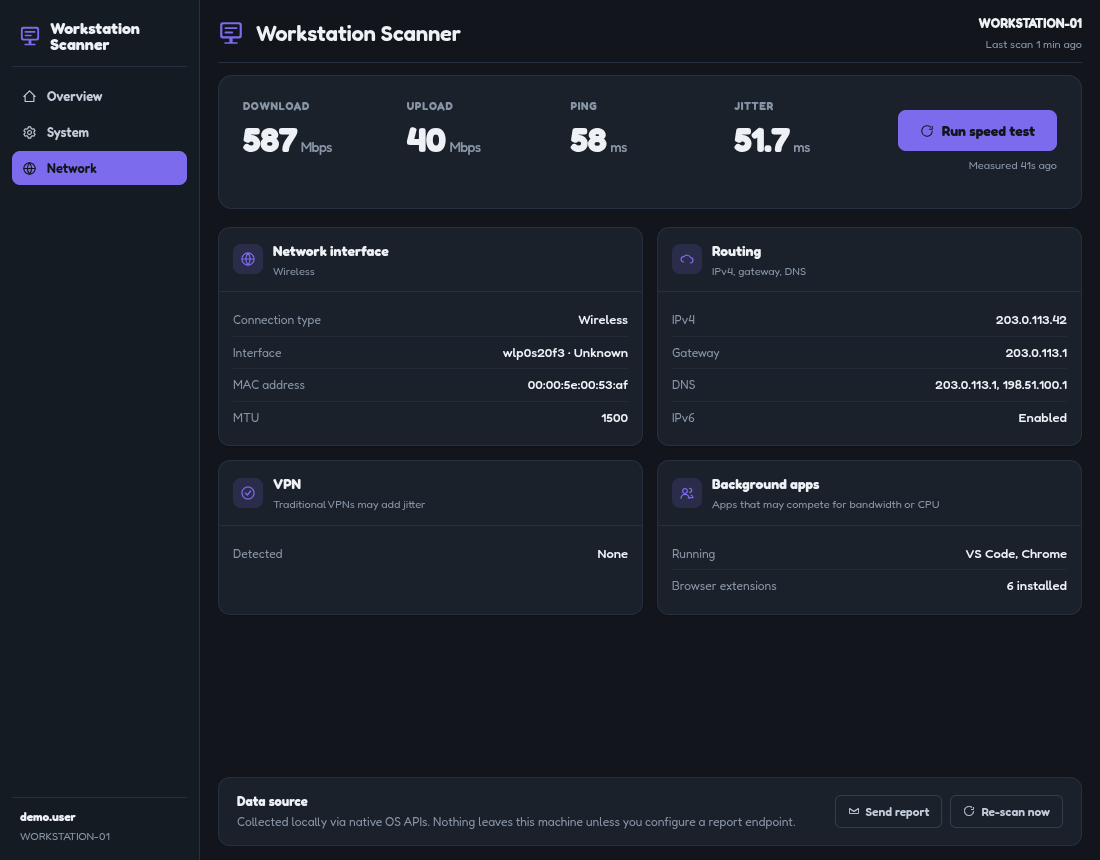
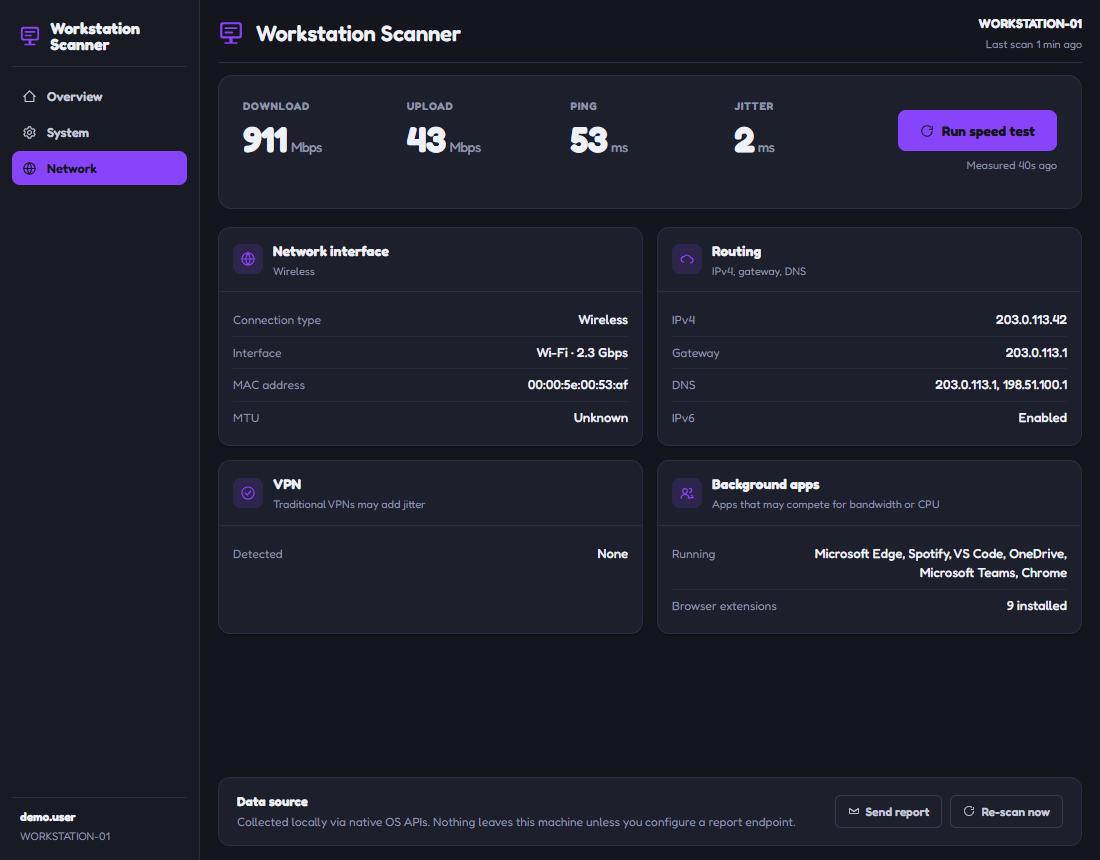
Rename the app to Workstation Scanner and drop the old mark
The product is called Workstation Scanner. The old name and the old
logo it came with are gone: window title, page title, in-app header and
sidebar, README, Postman collection, npm name, productName and the
build's appId.

The mark is now a display showing two readings, drawn to stay legible
once Windows scales it to 16px, on the app's own accent colour rather
than the blue it borrowed. Icons, the window icon and the README
screenshots are regenerated from it.

appId moves to com.evontroy.workstation-scanner. Nothing has been
released under the old id, so no installed copy is orphaned by the
change; a future release would have carried the old name in its install
path and settings location forever.

diff --git a/main.js b/main.js
@@ -1,7 +1,7 @@
 // ═══════════════════════════════════════════════════════
 //  ELECTRON MAIN PROCESS
 //
-//  Hosts the Workstation Health Dashboard UI (renderer at
+//  Hosts the Workstation Scanner UI (renderer at
 //  app/renderer). The main process collects real system
 //  facts via systeminformation and exposes them to the
 //  renderer over the `window.whd` bridge (see app/preload.js).
@@ -23,7 +23,7 @@ function createWindow() {
     height: 860,
     minWidth: 920,
     minHeight: 680,
-    title: "Workstation Health Dashboard",
+    title: "Workstation Scanner",
     // Packaged builds take the icon from electron-builder; setting it here is
     // what gives `npm start` a branded window and taskbar entry too.
     icon: path.join(APP_DIR, "renderer", "assets", "logo", "icon-256.png"),

diff --git a/tools/make-icons.js b/tools/make-icons.js
@@ -1,6 +1,6 @@
 // make-icons.js — generates the app icon set from the brand mark.
 //
-// Renders assets/logo/logo-mark.svg onto a rounded brand-blue tile at every
+// Renders assets/logo/logo-mark.svg onto a rounded accent-coloured tile at every
 // size Windows, macOS and Linux want, then packs the Windows sizes into a
 // multi-resolution .ico. Output goes to build/, which electron-builder picks
 // up automatically (it is the default buildResources directory).
@@ -15,7 +15,7 @@ const ROOT = path.join(__dirname, "..");
 const BUILD = path.join(ROOT, "build");
 const ICONS_DIR = path.join(BUILD, "icons");
 
-const BRAND = "#0041D9"; // the mark's own blue, used as the tile
+const BRAND = "#7d6bee"; // --accent from the app's theme, used as the tile
 const ICO_SIZES = [16, 24, 32, 48, 64, 128, 256];
 const PNG_SIZES = [16, 32, 48, 64, 128, 256, 512, 1024];
 

diff --git a/app/renderer/helper-app.jsx b/app/renderer/helper-app.jsx
@@ -94,7 +94,7 @@ function Header() {
       <div className="brand">
         <Logo size={26} />
         <div>
-          <div className="brand-name">Workstation Health Dashboard</div>
+          <div className="brand-name">Workstation Scanner</div>
         </div>
       </div>
       <div className="head-right">
@@ -204,7 +204,7 @@ function Sidebar({ active, onChange }) {
       <div className="sb-brand">
         <Logo size={22} />
         <div>
-          <div className="sb-name">Health Dashboard</div>
+          <div className="sb-name">Workstation Scanner</div>
         </div>
       </div>
       <nav className="sb-nav" aria-label="Dashboard sections">

diff --git a/app/renderer/assets/colors_and_type.css b/app/renderer/assets/colors_and_type.css
@@ -1,5 +1,5 @@
 /* ============================================================
-   Workstation Health Dashboard — Colors & Type Tokens
+   Workstation Scanner — Colors & Type Tokens
    ============================================================ */
 
 /* Local brand font — variable Fredoka (weight 300–700, width 75–125).

diff --git a/app/renderer/index.html b/app/renderer/index.html
@@ -2,7 +2,7 @@
 <html lang="en">
 <head>
 <meta charset="UTF-8" />
-<title>Workstation Health Dashboard</title>
+<title>Workstation Scanner</title>
 <meta name="viewport" content="width=device-width, initial-scale=1.0" />
 <!--
   Everything the page loads ships inside the app — no CDN, no runtime JSX

diff --git a/app/renderer/helper.css b/app/renderer/helper.css
@@ -1,4 +1,4 @@
-/* helper.css — styles for the Workstation Health Dashboard UI */
+/* helper.css — styles for the Workstation Scanner UI */
 @import url("assets/colors_and_type.css");
 @import url("assets/theme.css");
 

diff --git a/README.md b/README.md
@@ -1,4 +1,4 @@
-# Workstation Health Dashboard
+# Workstation Scanner
 
 This application reports on a computer's health —
 CPU, RAM, disk, OS, network, antivirus, and audio — and runs a real network
@@ -81,7 +81,7 @@ See [`postman/README.md`](postman/README.md) for what each request checks.
 ## Project structure
 
 ```
-Workstation-Health-Dashboard/
+Workstation-Scanner/
 ├── main.js                  # Electron main process (window + IPC)
 ├── build.js                 # renderer build: vendors React, bundles the JSX
 ├── build/                   # app icons (generated by `npm run icons`)
